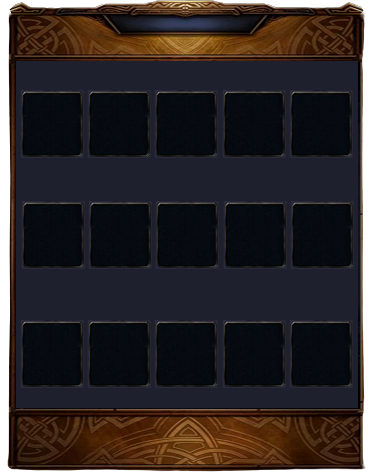
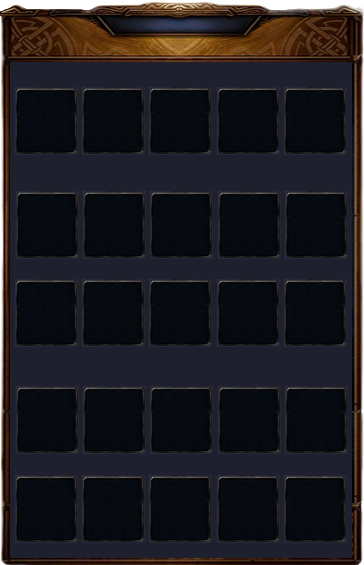
Hud update (#52)
* reacomodo el hud

* corrijo posicion del mp

* corrijo inventario para mostrar mas items

diff --git a/RPGame/core/src/com/avengers/rpgame/graphics/inventary/Inventary.java b/RPGame/core/src/com/avengers/rpgame/graphics/inventary/Inventary.java
@@ -30,7 +30,7 @@ public class Inventary {
     private ArrayList<Item>sourceItems = new ArrayList<Item>();
     private ProxyDataManager proxyDataManager;
     private AbstractCharacter character;
-    private InventaryBG inventary = new InventaryBG(0.64f, 0.85f);
+    private InventaryBG inventary = new InventaryBG(0.64f, 0.9f);
     private BitmapFont gameFont = FontFactory.createBitMapFont(Gdx.files.internal(Resources.resourceMainFont), Resources.inventaryTittleFontSize, Color.WHITE, false, Color.BLACK);
     private BitmapFont nameFont = FontFactory.createBitMapFont(Gdx.files.internal(Resources.resourceMainFont), Resources.inventaryNameFontSize, Color.WHITE, false, Color.BLACK);
     private GameConfig gameConfig;
@@ -79,15 +79,15 @@ public class Inventary {
         this.updateInventaryItems();
         if (this.getShowInventary()) {
             inventary.get_sprite().draw(batch);
-            gameFont.draw(batch, "Inventario", resolution.x*0.465f, resolution.y*0.86f);
+            gameFont.draw(batch, "Inventario", resolution.x*0.472f, resolution.y*0.905f);
             for(ScreenItem item: screenItems) {
                 item.get_sprite().draw(batch);
-                GlyphLayout description = new GlyphLayout(nameFont, item.getDescription(), Color.WHITE, 90, Align.left, true);
-                nameFont.draw(batch, description, item.getItemX(), item.getItemY()-10);
+                GlyphLayout description = new GlyphLayout(nameFont, item.getDescription(), Color.WHITE, 95, Align.left, true);
+                nameFont.draw(batch, description, item.getItemX()-5, item.getItemY()-10);
             }
-            gameFont.draw(batch, "Ataques", resolution.x*0.38f, resolution.y*0.78f);
-            gameFont.draw(batch, "Habilidades", resolution.x*0.38f, resolution.y*0.6f);
-            gameFont.draw(batch, "Items", resolution.x*0.38f, resolution.y*0.42f);
+            gameFont.draw(batch, "Ataques", resolution.x*0.375f, resolution.y*0.825f);
+            gameFont.draw(batch, "Habilidades", resolution.x*0.375f, resolution.y*0.675f);
+            gameFont.draw(batch, "Items", resolution.x*0.375f, resolution.y*0.385f);
         }
     }
 
@@ -120,11 +120,11 @@ public class Inventary {
     private void createItems() {
         this.screenItems = new Array<ScreenItem>();
         double lastValueX = 0.62;
-        double lastValueY = 0.35;
+        double lastValueY = 0.28;
         int lastItem = 0;
 
         for (Attack tItem : this.sourceAttaks) {
-            ScreenItem item = new ScreenItem(tItem.getImagePath(), tItem.getPrice(), tItem.getDescription(), lastValueX, lastValueY, 100);
+            ScreenItem item = new ScreenItem(tItem.getImagePath(), tItem.getPrice(), tItem.getDescription(), lastValueX, lastValueY, 80);
             screenItems.add(item);
             lastValueX -= 0.055;
             lastItem++;
@@ -135,10 +135,10 @@ public class Inventary {
             }
         }
         lastValueX = 0.62;
-        lastValueY += 0.18;
+        lastValueY = 0.44;
         lastItem = 0;
         for (Skill tItem : this.sourceSkills) {
-            ScreenItem item = new ScreenItem(tItem.getImagePath(), tItem.getPrice(), tItem.getDescription(), lastValueX, lastValueY, 100);
+            ScreenItem item = new ScreenItem(tItem.getImagePath(), tItem.getPrice(), tItem.getDescription(), lastValueX, lastValueY, 80);
             screenItems.add(item);
             lastValueX -= 0.055;
             lastItem++;
@@ -149,10 +149,10 @@ public class Inventary {
             }
         }
         lastValueX = 0.62;
-        lastValueY += 0.18;
+        lastValueY = 0.728;
         lastItem = 0;
         for (Item tItem : this.sourceItems) {
-            ScreenItem item = new ScreenItem(tItem.getImagePath(), tItem.getPrice(), tItem.getDescription(), lastValueX, lastValueY, 100);
+            ScreenItem item = new ScreenItem(tItem.getImagePath(), tItem.getPrice(), tItem.getDescription(), lastValueX, lastValueY, 80);
             screenItems.add(item);
             lastValueX -= 0.055;
             lastItem++;

diff --git a/RPGame/core/src/com/avengers/rpgame/graphics/hud/elements/Weapon.java b/RPGame/core/src/com/avengers/rpgame/graphics/hud/elements/Weapon.java
@@ -133,7 +133,7 @@ public class Weapon {
     private void createWeapon() {
         GameConfig gameConfig = GameConfig.getInstance();
         Vector2 resolution = new Vector2((float)gameConfig.getResolutionHorizontal(), (float)gameConfig.getResolutionVertical());
-        Vector2 ofset =  new Vector2(resolution.x*0.8f, resolution.y*0.08f);
+        Vector2 ofset =  new Vector2(resolution.x*0.975f, resolution.y*0.18f);
         Vector2 position = new Vector2(resolution.x -ofset.x, resolution.y-ofset.y);
         this.set_texture(loadTexture(this.getWeaponPath()));
         this.set_sprite(new Sprite(this.get_texture()));

diff --git a/RPGame/core/src/com/avengers/rpgame/graphics/hud/elements/MP.java b/RPGame/core/src/com/avengers/rpgame/graphics/hud/elements/MP.java
@@ -64,7 +64,7 @@ public class MP {
     private void createMagicPower () {
         GameConfig gameConfig = GameConfig.getInstance();
         Vector2 resolution = new Vector2((float)gameConfig.getResolutionHorizontal(), (float)gameConfig.getResolutionVertical());
-        Vector2 ofset =  new Vector2(resolution.x*0.74f, resolution.y*0.07f);
+        Vector2 ofset =  new Vector2(resolution.x*0.925f, resolution.y*0.175f);
         Vector2 position = new Vector2(resolution.x -ofset.x, resolution.y-ofset.y);
         this.set_texture(loadTexture(HUDPotion));
         this.set_sprite(new Sprite(this.get_texture()));

diff --git a/RPGame/core/src/com/avengers/rpgame/graphics/hud/HUD.java b/RPGame/core/src/com/avengers/rpgame/graphics/hud/HUD.java
@@ -116,7 +116,7 @@ public class HUD {
         }
         if (this.character.getCharacterClass().getIdCharacterClass() == 3) {
             magicPower.get_sprite().draw(rpGame.batch);
-            gameFont.draw(rpGame.batch, String.valueOf(this.character.getMagicPoints()), resolution.x*0.3f, resolution.y*0.96f);
+            gameFont.draw(rpGame.batch, String.valueOf(this.character.getMagicPoints()), resolution.x*0.11f, resolution.y*0.855f);
         }
 
         levelIcon.get_sprite().draw(rpGame.batch);

diff --git a/RPGame/core/src/com/avengers/rpgame/utils/Resources.java b/RPGame/core/src/com/avengers/rpgame/utils/Resources.java
@@ -186,7 +186,7 @@ public class Resources {
     public static final int generalHUDFontSize = 36;
     public static final int levelHUDFontSize = 20;
     public static final int generalDialogFontSize = 36;
-    public static final int inventaryTittleFontSize = 36;
+    public static final int inventaryTittleFontSize = 30;
     public static final int inventaryNameFontSize = 16;
 
 

diff --git a/RPGame/core/src/com/avengers/rpgame/graphics/inventary/InventaryBG.java b/RPGame/core/src/com/avengers/rpgame/graphics/inventary/InventaryBG.java
@@ -73,6 +73,6 @@ public class InventaryBG {
         this.set_sprite(new Sprite(this.get_texture()));
         this.setItemX((int)position.x);
         this.setItemY((int)position.y);
-        this.setSize(580, 800);
+        this.setSize(580, 900);
     }
 }
